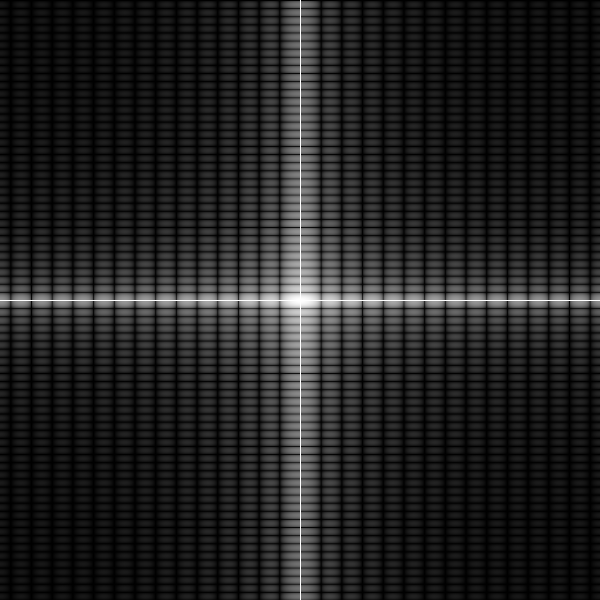
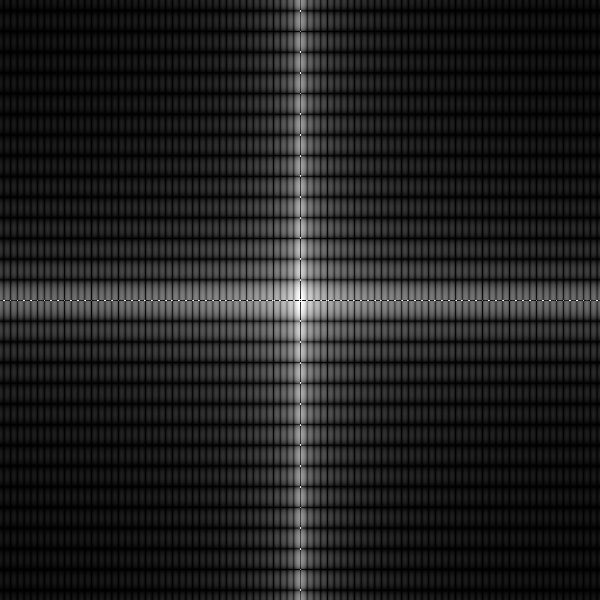
stashing frequency domain doc

Changed region(s): [[0.0, 0.0, 1.0, 1.0]]

diff --git a/docs/frequency_domain/frequency_domain_example.cpp b/docs/frequency_domain/frequency_domain_example.cpp
@@ -6,57 +6,53 @@
 #include <fourier_transform.hpp>
 #include <system.hpp>
 #include <image/grayscale_image.hpp>
+#include <whole_image_transform.hpp>
 
 using namespace crisp;
 
 int main()
 {
-    auto image = load_grayscale_image("/home/clem/Workspace/crisp/docs/frequency_domain/cube.png");
+    /*
+    auto image = load_grayscale_image("/home/clem/Workspace/crisp/docs/frequency_domain/color_opal.png");
+
+    save_to_disk(image, "/home/clem/Workspace/crisp/docs/frequency_domain/grayscale_opal.png");
 
     auto spectrum = FourierTransform<SPEED>();
     spectrum.transform_from(image);
 
-    /*
     auto spectrum_img = spectrum.as_image();
     save_to_disk(spectrum_img, "/home/clem/Workspace/crisp/docs/frequency_domain/opal_spectrum.png");
 
-    double max = 0;
+    auto filter = FrequencyDomainFilter(spectrum);
+    filter.as_ideal_highpass(0.4 * spectrum.get_size().x(), 1, 0);
 
-    for (long x = 0; x < spectrum.get_size().x(); ++x)
-    for (long y = 0; y < spectrum.get_size().y(); ++y)
-    {
-        if (abs(y - spectrum.get_size().y() * 0.5) < 5 or abs(x - spectrum.get_size().x() * 0.5) < 5)
-            continue;
+    auto other = FrequencyDomainFilter(spectrum);
+    other.as_gaussian_lowpass(0.1 * spectrum.get_size().x(), 1, 0);
 
-        if (spectrum.get_component(x, y) > max)
-            max = spectrum.get_component(x, y);
-    }
+    filter += other;
+    filter.normalize();
 
-    /*
-    for (long x = 0; x < spectrum.get_size().x(); ++x)
-    for (long y = 0; y < spectrum.get_size().y(); ++y)
-    {
-        //if (spectrum.get_component(x, y) > 0.99 * max)
-            spectrum.get_component(x, y) = 0.9 * spectrum.get_component(x, y);
-    }*/
+    auto filter_img = filter.as_image<GrayScaleImage>();
+    normalize(filter_img);
+    save_to_disk(filter_img, "/home/clem/Workspace/crisp/docs/frequency_domain/combined_filter.png");
 
-    auto spectrum_img = spectrum.as_image();
-    save_to_disk(spectrum_img, "/home/clem/Workspace/crisp/docs/frequency_domain/opal_spectrum_modified.png");
+    filter.apply_to(spectrum);
 
-    auto result = spectrum.transform_to<GrayScaleImage>();
-    save_to_disk(result, "/home/clem/Workspace/crisp/docs/frequency_domain/opal_spectrum_result.png");
+    spectrum_img = spectrum.as_image();
+    save_to_disk(spectrum_img, "/home/clem/Workspace/crisp/docs/frequency_domain/opal_spectrum_filtered.png");
 
-    /*
+    image = spectrum.transform_to<GrayScaleImage>();
+    normalize(image);
+    save_to_disk(image, "/home/clem/Workspace/crisp/docs/frequency_domain/opal_filtered.png");
+
     auto cube_img = GrayScaleImage(300, 300);
 
     for (size_t x = 0; x < cube_img.get_size().x(); ++x)
     for (size_t y = 0; y < cube_img.get_size().y(); ++y)
     {
-        if (x > cube_img.get_size().x() * 0.45 and x < cube_img.get_size().x() * 0.255 and
-            y > cube_img.get_size().y() * 0.3 and y < cube_img.get_size().y() * 0.6)
-        {
+        if (x > 0.35 * cube_img.get_size().x() and x < 0.45 * cube_img.get_size().x() and
+            y > 0.45 * cube_img.get_size().y() and y < 0.75 * cube_img.get_size().y())
             cube_img(x, y) = 1.f;
-        }
         else
             cube_img(x, y) = 0.f;
     }
@@ -68,7 +64,6 @@ int main()
 
     auto filter = FrequencyDomainFilter(spectrum);
 
-    /*
     auto magnitude_img = spectrum.as_image();
     save_to_disk(magnitude_img, "/home/clem/Workspace/crisp/docs/frequency_domain/cube_spectrum.png");
 
@@ -76,11 +71,19 @@ int main()
     save_to_disk(angle_img, "/home/clem/Workspace/crisp/docs/frequency_domain/cube_angle.png");
 
     auto dc = spectrum.get_dc_component();
+
+    auto center_x = spectrum.get_size().x() * 0.5;
+    auto center_y = spectrum.get_size().y() * 0.5;
+
     for (size_t x = 0; x < spectrum.get_size().x(); ++x)
     for (size_t y = 0; y < spectrum.get_size().y(); ++y)
     {
-        if (x == spectrum.get_size().x() * 0.25 or y == spectrum.get_size().y() * 0.25)
-            spectrum.get_component(x, y) = dc;
+        if (x == center_x or y == center_y)
+        {
+            auto dist = sqrt((center_x - x) * (center_x - x) + (center_y - y) * (center_y - y));
+            if (dist > 0.1 * center_x);
+                spectrum.get_component(x, y) *= dist;
+        }
     }
 
     auto modified_spectrum = spectrum.as_image();
@@ -88,14 +91,14 @@ int main()
 
     auto modified_cube = spectrum.transform_to<GrayScaleImage>();
     save_to_disk(modified_cube, "/home/clem/Workspace/crisp/docs/frequency_domain/cube_modified.png");
-
+    */
 
     filter.as_identity();
     auto filter_img = filter.as_image<GrayScaleImage>();
     save_to_disk(filter_img, "/home/clem/Workspace/crisp/docs/frequency_domain/identity.png");
 
-    size_t x_size = spectrum.get_size().x(),
-           y_size = spectrum.get_size().y();
+    size_t x_size = spectrum.get_size().x() * 0.5,
+           y_size = spectrum.get_size().y() * 0.5;
 
     // low pass
     filter.as_ideal_lowpass(0.25 * x_size);
@@ -193,12 +196,10 @@ int main()
     filter_img = filter.as_image<GrayScaleImage>();
     save_to_disk(filter_img, "/home/clem/Workspace/crisp/docs/frequency_domain/no_offset.png");
 
-
     filter.set_offset(-0.2 * spectrum.get_size().x(), -0.1 * spectrum.get_size().y(), true);
+    filter.normalize();
     filter_img = filter.as_image<GrayScaleImage>();
     save_to_disk(filter_img, "/home/clem/Workspace/crisp/docs/frequency_domain/with_symmetry.png");
-     */
-
 
 }
 

diff --git a/include/frequency_domain_filter.hpp b/include/frequency_domain_filter.hpp
@@ -42,6 +42,11 @@ namespace crisp
             /// @param force_symmetry: should the filter be mirrored across it's origin
             void set_offset(size_t x_dist_from_center, size_t y_dist_from_center, bool force_symmetry = true);
 
+            /// @brief normalize all values in the filter to specified interval
+            /// @param min: minimum value in filter
+            /// @param max: maximum value in filter
+            void normalize(double min = 0, double max = 1);
+
             /// @brief element-wise add one filter to another
             /// @param : other filter
             /// @returns resulting filter

diff --git a/docs/frequency_domain/frequency_domain_filtering.md b/docs/frequency_domain/frequency_domain_filtering.md
@@ -22,7 +22,7 @@ Fourier- and Discrete Cosine Transforms and their Filters
         3.2.2 [High-Pass Filters](#322-high-pass-filters)<br>
         3.2.3 [Band-Pass Filters](#323-band-pass-filters)<br>
         3.2.4 [Band-Reject Filters](#324-band-reject-filters)<br>
-   3.3 [Modifying Filter]()
+   3.3 [Modifying Filter](#33-modifying-filter)
    
 
 ## 1. Introduction
@@ -40,13 +40,13 @@ Computing the fourier transform is taxing and can be quite slow, to alleviate th
 ```cpp
 enum FourierTransformMode {SPEED, BALANCED, ACCURACY};
 
-template<FourierTransformMode Mode>
+template<FourierTransformMode Mode = BALANCED>
 class FourierTransform
 {
 ```
 
 + ``SPEED`` is the most optimal version offered by crisp, it uses 32-bit float coefficients and employs a suboptimal heuristic. While artifacting due to low precision is common, this is the only mode that can realistically be run in real time on most at-home machines.
-+ ``BALANCE`` is about 2 times slower than ``SPEED`` and uses 64-bit double coefficients. It's heuristic is also suboptimal, however is much closer to optimum than ``SPEED``s. For applications where easier a high performance CPU is available or for smaller images this mode is recommended
++ ``BALANCE`` is about 1.5 times slower than ``SPEED`` and uses 64-bit double coefficients. It's heuristic is also suboptimal, however is much closer to optimum than ``SPEED``s. For applications where easier a high performance CPU is available or for smaller images this mode is recommended and thus specified as default
 + ``ACCURACY`` is about 10 times slower than ``SPEED`` and uses 64-bit double coefficients, like ``BALANCE``. The significant slow down comes from first computing the optimal heuristic, this assures that results are as accurate as possible, however the difference between it's results and ``BALANCED``s result are often not noticeable. Nonetheless in situations that do not care about real-time interactivie and where high precision is necessary, this is the mode of choice
 
 ### 2.2 Creating the Transform
@@ -56,7 +56,7 @@ To transforme a 1-dimensional image (henceforth assumed to be a ``crisp::GraySca
 ```cpp
 auto image = load_grayscale_image(/*...*/ + "/crisp/docs/frequency_domain/cube.png");
 
-auto fourier = FourierTransform<BALANCED>();
+auto fourier = FourierTransform();  // equivalent to FourierTransform<BALANCED>();
 fourier.transform_from(image);
 ```
 
@@ -125,7 +125,7 @@ for (size_t y = 0; y < spectrum.get_size().y(); ++y)
         spectrum.get_component(x, y) = dc;
 }
 ```
-Here we set each component along the center axis to the same value as the dc component. The spectrum now looks like this:
+Here we multiply each component along the center axis that by factor that increases the farther away from the dc component it is. The spectrum now looks like this:
 
 ![](cube_spectrum_modified.png)
 
@@ -138,7 +138,7 @@ auto result = spectrum.transform_to<GrayScaleImage>();
 
 ![](cube_modified.png)
 
-The original image is unrecognizable but we do note the typical periodicity that is inherent to all spectral techniques.
+The original image is unrecognizable but we do note both that it roughly adheres to the original boundary of the rectangle and the typical periodicity that is inherent to many spectral techniques.
 
 ## 3. Spectral Filters
 ## 3.1 Creating and Visualizing Filters
@@ -335,6 +335,13 @@ FrequencyDomainFilter& operator/=(const FrequencyDomainFilter&);
 
 The fact these are defined and the fact both the attenuating and passing factor are freely choosable lends a huge amount of freedom in filter design. To truly achieve full flexibility however we need to also be able to move a filters center.
 
+After modification, especially addition or subtraction it is common for a filter to have values below 0 or above 1, which in certain circumstances is undiserable. In response to this ``crisp`` offers a member function that projects all filter values into the specified interval:
+
+```cpp
+void normalize(double min = 0, double max = 1)
+``` 
+This function linearly projects all resulting values of the filter into the specified interval or [0, 1] by default.
+
 ## 3.4 Filter Offset and Symmetry
 
 ``crisp::FrequencyDomainFilter`` uses the following function:
@@ -393,58 +400,76 @@ Note that when moving a filters center out of bounds no wrapping will take place
 
 ## 3.5 Applying a Filter
 
-## 4. A final example
+We conclude this section with a final example. Let's again consider familiar image of a bird:<br>
 
-We conclude this section with an example illustrating the spectral techniques discussed thus far. Let's consider the following image of a bird:
+![](./grayscale_opal.png)
 
-![](./opal_interference.png)
-
-The image exhibits a significant sinusoidal interference. Removing this element in the spatial domain would be hard and laborous so we will now try if we can do so in an easier way using spectral techniques. We compute the images fourier transform like so:
+To filter this image we first compute it's fourier spectrum:
 
 ```cpp
-auto image = load_grayscale_image(/*...*/ + "/crisp/docs/frequency_domain/opal_interference.png");
+auto image = load_grayscale_image(/*...*/ + "/crisp/docs/frequency_domain_filtering/grayscale_opal.png");
 
-auto spectrum = FourierTransform<BALANCED>();
+auto spectrum = FourierSpectrum();
 spectrum.transform_from(image);
-
-auto spectrum_img = spectrum.as_image();
-// render or save to disk
 ```
 
 ![](./opal_spectrum.png)
 
-Looking closely at the center we notice a series of white dots, bursts of energy along the +45° axis of the spectrum. We want to filter these 
+We can now continue on with filter design. We first create a new ideal highpass filter. Because highpass filters attenuate lower frequencies towards the center of the spectrum, an unmodified highpass filter will inevitably modify the dc component. This would result in an overall lowering of the brightness of the image, to alleviate this we can combine the highpass filter with a lowpass filter, in this case a gaussian lowpass:
 
+```cpp 
+auto filter = FrequencyDomainFilter();
+filter.as_ideal_highpass(0.4 * spectrum.get_size().x());
 
+auto lowpass = FrequencyDomainFilter();
+lowpass.as_gaussian_lowpass(0.1 * spectrum.get_size().x());
 
+filter += lowpass;
+filter.normalize();
+``` 
+After normalizing the filter we can render it to an image to inspect it:
 
+![](./combined_filter.png)
 
+We now apply the filter to the spectrum using ``apply_to`` and then transform the spectrum back into an image:
 
+```cpp
+filter.apply_to(spectrum);
+image = spectrum.transform_to<GrayScaleImage>();
+``` 
+The filtered spectrum now looks like this:<br>
 
+![](./opal_spectrum_filtered.png)<br>
 
+And the resulting image is:<br>
+![](./opal_filtered.png)
 
+We note expected blurring as highpass filters tend to eliminate lower frequencies. Inspecting the image closely we note "ringing" around the letters:<br>
 
+![](./opal_ringing_closeup.png)<br><br>
 
-  
-
-
-
-
-  
-
-
-
-
-
-
-
-
-
-
-
-
+ This is because higher frequencies tend to correspond to fine detail, the image is overall relatively noise and even but the letters specifically are well-contrasted against the background which is why the effect of the ideal highpass cutoff is most notable for them.
 
 ---
+<br>
+<br>
+<br>
+<br>
+<br>
+<br>
+<br>
+<br>
+<br>
+<br>
+<br>
+<br>
+<br>
+<br>
+<br>
+<br>
+
+---
+
 #### Cube Phase Angle
 ![](./cube_angle.png)<br>
 [back to section](#23-visualizing-the-spectrum)
